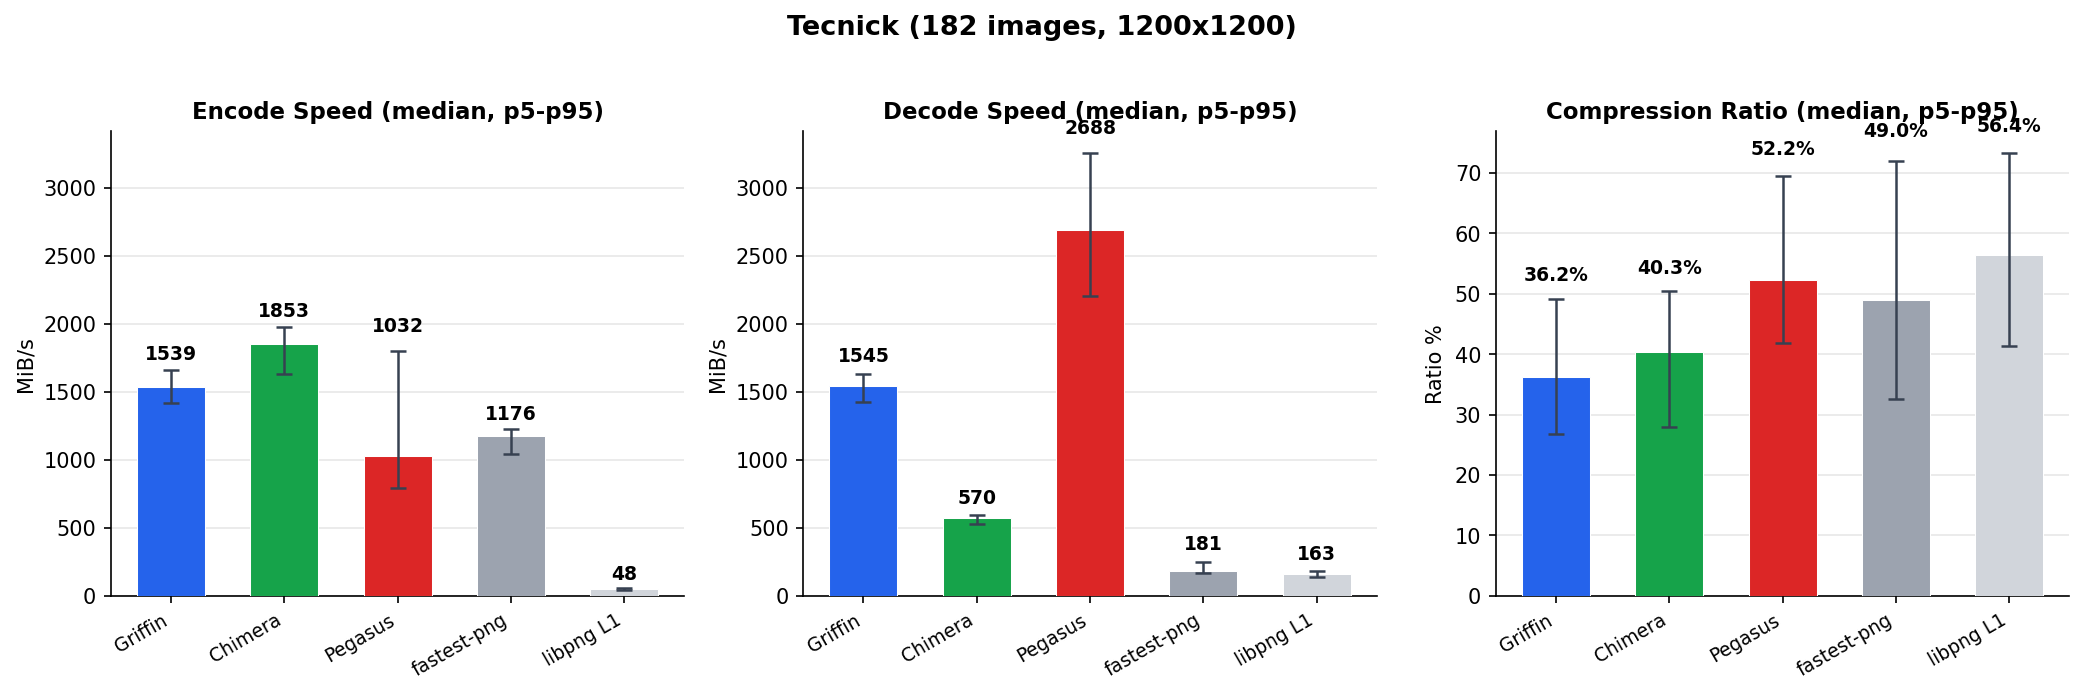
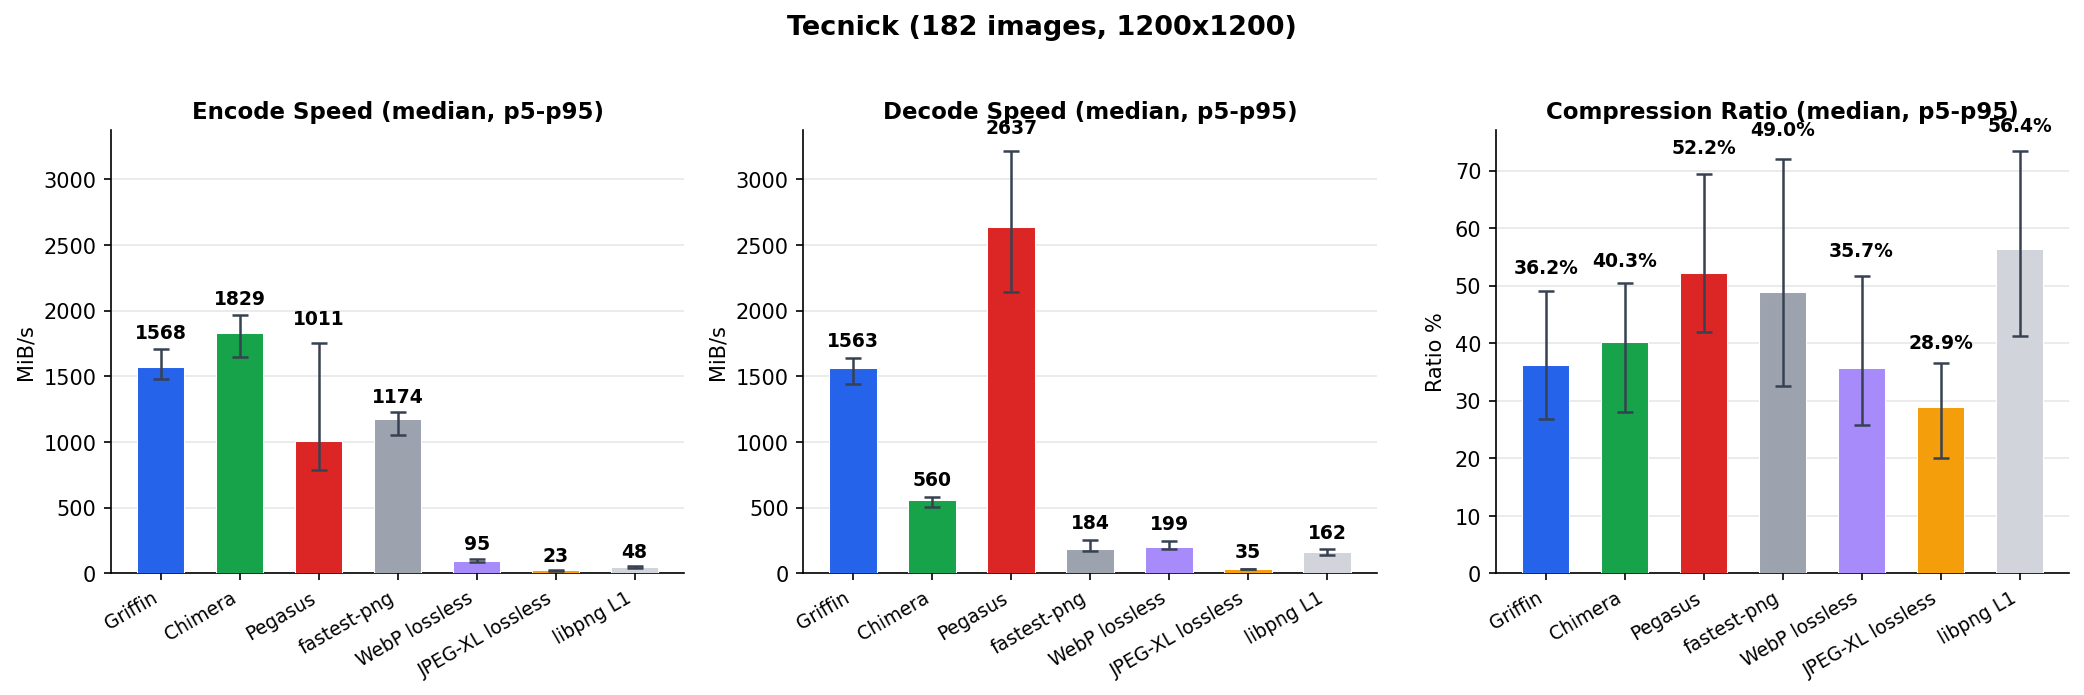
Add WebP lossless and JPEG-XL lossless baselines to benchmarks

diff --git a/README.md b/README.md
@@ -12,27 +12,31 @@ Fast lossless image codecs that compress better than PNG.
 
 All speeds are raw pixel throughput (width x height x channels / time), single core, best-of-N iterations. Ratio is encoded size / uncompressed size using the original channel count (3 for RGB, 4 for RGBA).
 
-**Methodology:** All codecs (ours and baselines) use the same measurement approach: pre-allocated output buffers and reusable codec contexts, so timing reflects codec work only — no memory allocation in the hot path. This matches how a performance-conscious integration would use these codecs in production. Measured on an Intel Core i7-13700H (single P-core).
+**Methodology:** All codecs run sequentially on a single core (Intel Core i7-13700H P-core), best-of-3. Our codecs use pre-allocated buffers and reusable contexts. WebP lossless uses method=0/quality=0 (fastest). JPEG-XL lossless uses effort=3.
 
 ### Tecnick dataset (182 images, 1200x1200 RGB)
 
 | Codec | Ratio | Encode (MiB/s) | Decode (MiB/s) |
 |-------|------:|---------------:|---------------:|
-| **Griffin** | **36.8%** | **1515** | **1537** |
-| **Chimera** | **38.7%** | **1816** | **565** |
-| **Pegasus** | **53.4%** | **1079** | **2652** |
-| fpnge+libdeflate | 49.9% | 1156 | 188 |
-| libpng L1 | 55.4% | 48 | 161 |
+| **Griffin** | **36.8%** | **1479** | **1479** |
+| **Chimera** | **38.7%** | **1728** | **542** |
+| **Pegasus** | **53.4%** | **1046** | **2488** |
+| JPEG-XL lossless | 28.8% | 22 | 34 |
+| WebP lossless | 37.1% | 91 | 201 |
+| fpnge+libdeflate | 49.9% | 1109 | 184 |
+| libpng L1 | 55.4% | 47 | 158 |
 
 ### Kodak dataset (24 images, 768x512)
 
 | Codec | Ratio | Encode (MiB/s) | Decode (MiB/s) |
 |-------|------:|---------------:|---------------:|
-| **Griffin** | **48.9%** | **1186** | **1403** |
-| **Chimera** | **54.0%** | **1645** | **506** |
-| **Pegasus** | **62.0%** | **1446** | **3229** |
-| fpnge+libdeflate | 70.8% | 1008 | 226 |
-| libpng L1 | 65.7% | 46 | 153 |
+| **Griffin** | **48.9%** | **1216** | **1380** |
+| **Chimera** | **54.0%** | **1507** | **477** |
+| **Pegasus** | **62.0%** | **1498** | **3238** |
+| JPEG-XL lossless | 39.4% | 21 | 32 |
+| WebP lossless | 43.5% | 112 | 208 |
+| fpnge+libdeflate | 70.8% | 1013 | 227 |
+| libpng L1 | 65.7% | 46 | 152 |
 
 Lower ratio = better compression. Higher MiB/s = faster.
 
